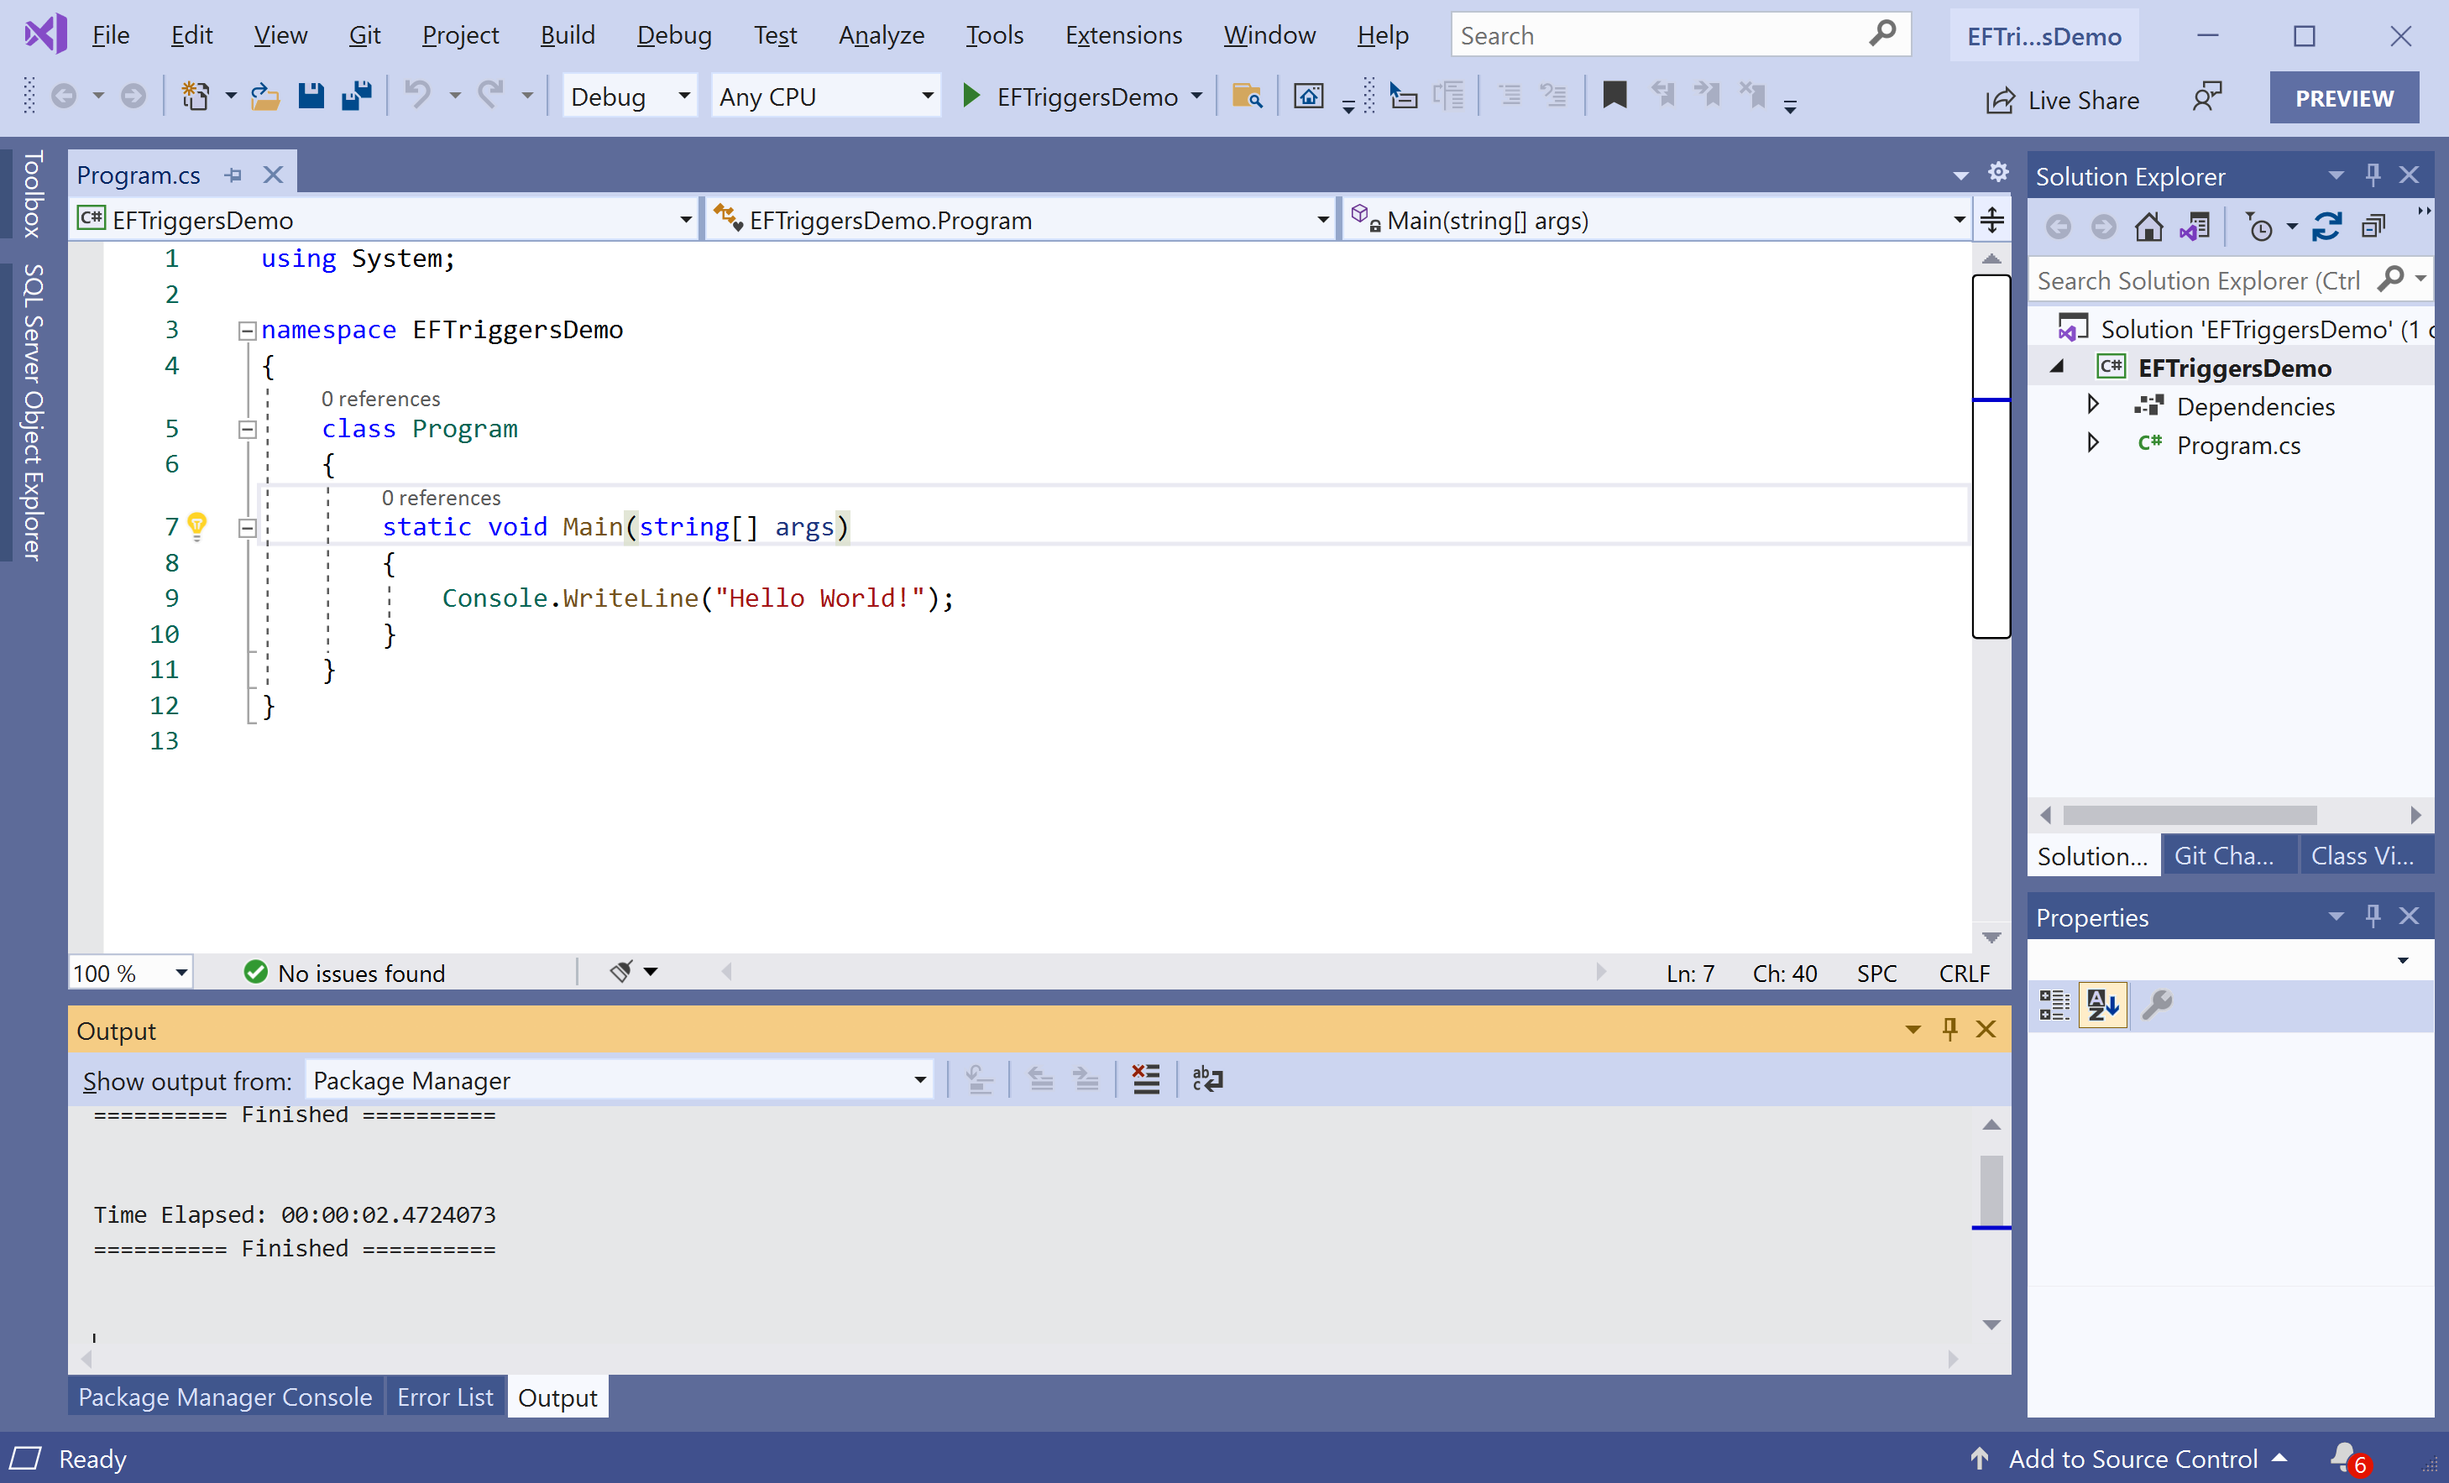
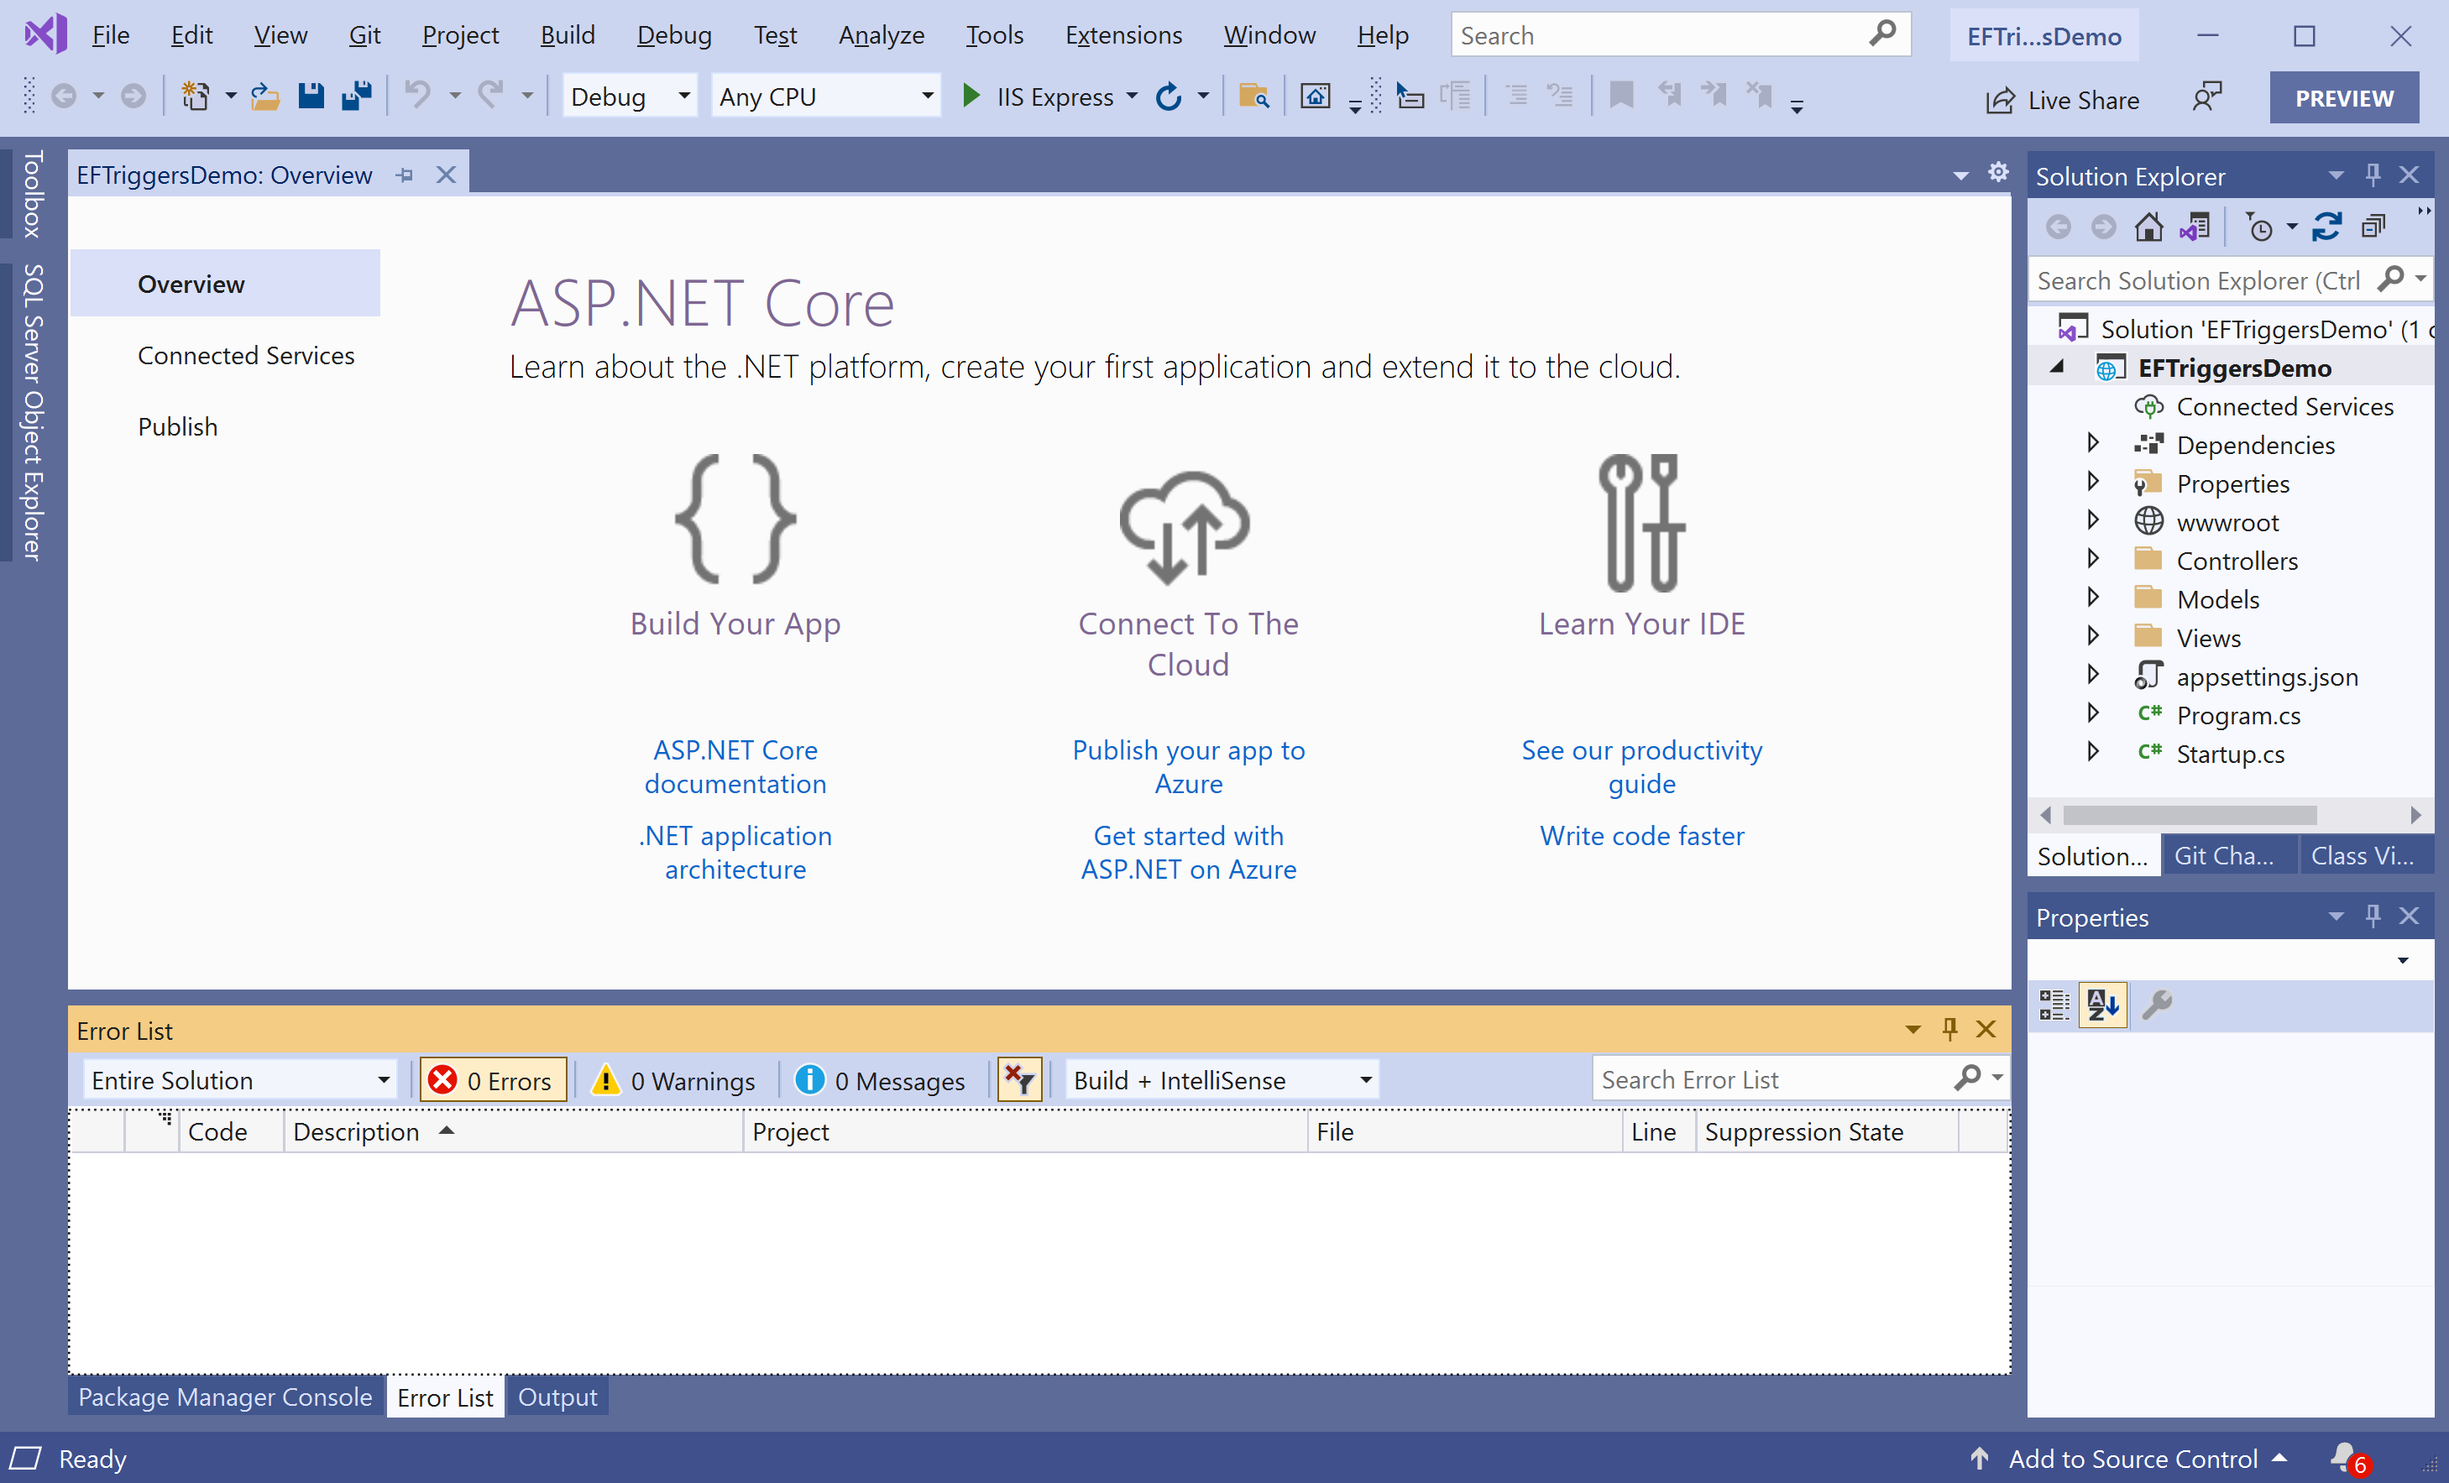
Updated Getting started article

diff --git a/tutorials/ef-triggers/getting-started.md b/tutorials/ef-triggers/getting-started.md
@@ -5,19 +5,19 @@ Name: Getting Started
 
 # Getting Started
 
-**EntityFramework.Triggers** is a NuGet library that adds triggers to your entities with insert, update, and delete events. It provides three events for each database operation: before, after, and upon failure.
+**EntityFrameworkCore.Triggers** is a NuGet library that adds triggers to your entities with insert, update, and delete events. It provides three events for each database operation: before, after, and upon failure.
 
 ## Installation
 
 You can easily install it from the **Package Manager Console** window by running the following command.
 
 ```csharp
-PM> Install-Package EntityFramework.Triggers
+PM> Install-Package EntityFrameworkCore.Triggers
 ```
 
 ## Environment Setup
 
-To start using the **EntityFramework.Triggers** in your application, you will need to install the [EntityFramework.Triggers](https://www.nuget.org/packages/EntityFramework.Triggers) NuGet package.
+To start using the **EntityFrameworkCore.Triggers** in your application, you will need to install the [EntityFrameworkCore.ConfigurationManager](https://www.nuget.org/packages/EntityFrameworkCore.ConfigurationManager) NuGet package.
 
 Let's open the Visual Studio and create a new project.
 
@@ -27,7 +27,7 @@ Select the **Create a new project** option.
 
 <img src="images/setup-2.png" alt="Select Console Application template">
 
-Choose **C#** as language, **Windows** as a platform, and **Console** as the project type. In the template pane, select **Console Application** and click the **Next** button.
+Choose **C#** as language, **Windows** as a platform, and **Web** as the project type. In the template pane, select **ASP.NET Core Web App (Model-View-Controller)** and click the **Next** button.
 
 <img src="images/setup-3.png" alt="Configure your new project">
 
@@ -39,15 +39,15 @@ On the **Additional Information** dialog, select the target framework and then c
 
 <img src="images/setup-5.png" alt="Console Application created">
 
-You can see a new console application project is created. Now to install an **EntityFramework.Triggers**, right-click on the project in **Solution Explorer**, and select **Manage NuGet Packages...**
+You can see a new web application project is created. Now to install an **EntityFrameworkCore.Triggers**, right-click on the project in **Solution Explorer**, and select **Manage NuGet Packages...**
 
-<img src="images/setup-6.png" alt="Install EntityFramework.Triggers">
+<img src="images/setup-6.png" alt="Install EntityFrameworkCore.Triggers">
 
-Select the **Browse** tab and search for **EntityFramework.Triggers** and install the latest version by pressing the **Install** button. 
+Select the **Browse** tab and search for **EntityFrameworkCore.Triggers** and install the latest version by pressing the **Install** button. 
 
-<img src="images/setup-7.png" alt="EntityFramework.Triggers installed successfully">
+<img src="images/setup-7.png" alt="EntityFrameworkCore.Triggers installed successfully">
 
-Once **EntityFramework.Triggers** has been successfully installed. Let's install the [Microsoft.EntityFrameworkCore](https://www.nuget.org/packages/Microsoft.EntityFrameworkCore) NuGet package and the database provider that you want to target. We will use SQL Server, and the provider package is [Microsoft.EntityFrameworkCore.SqlServer](https://www.nuget.org/packages/Microsoft.EntityFrameworkCore.SqlServer). We can easily install that NuGet package by executing the following command in **Package Manager Console**. 
+Once **EntityFrameworkCore.Triggers** has been successfully installed. Let's install the [Microsoft.EntityFrameworkCore](https://www.nuget.org/packages/Microsoft.EntityFrameworkCore) NuGet package and the database provider that you want to target. We will use SQL Server, and the provider package is [Microsoft.EntityFrameworkCore.SqlServer](https://www.nuget.org/packages/Microsoft.EntityFrameworkCore.SqlServer). We can easily install that NuGet package by executing the following command in **Package Manager Console**. 
 
 ```csharp
 PM> Install-Package Microsoft.EntityFrameworkCore
